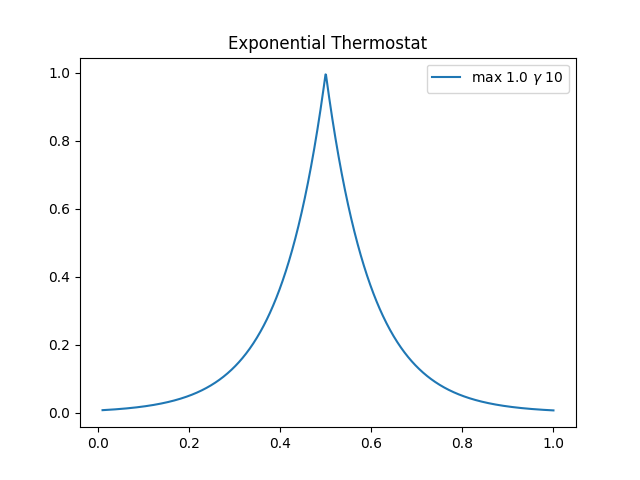
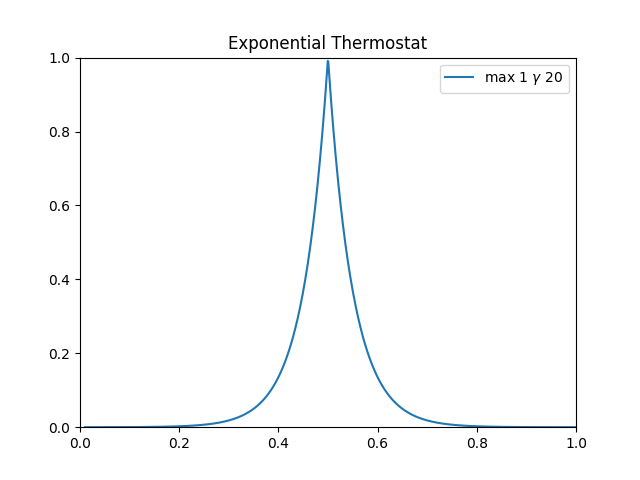
update

diff --git a/experiments/nist/crm_nist_single_run.py b/experiments/nist/crm_nist_single_run.py
@@ -1,7 +1,7 @@
 from conditional_rate_matching.configs.config_files import ExperimentFiles
 from conditional_rate_matching.models.trainers.crm_trainer import CRMTrainer
 from conditional_rate_matching.configs.configs_classes.config_crm import CRMConfig, CRMTrainerConfig
-from conditional_rate_matching.models.pipelines.thermostat.crm_thermostat_config import ConstantThermostatConfig, LogThermostatConfig
+from conditional_rate_matching.models.pipelines.thermostat.crm_thermostat_config import ConstantThermostatConfig, LogThermostatConfig, ExponentialThermostatConfig
 from conditional_rate_matching.models.temporal_networks.temporal_networks_config import UConvNISTNetConfig, TemporalDeepMLPConfig, TemporalLeNet5Config, TemporalLeNet5AutoencoderConfig, TemporalUNetConfig, CFMUnetConfig
 from conditional_rate_matching.models.metrics.metrics_utils import MetricsAvaliable
 from conditional_rate_matching.data.image_dataloader_config import NISTLoaderConfig
@@ -31,9 +31,7 @@ def CRM_single_run(dynamics="crm",
                     dropout=0.1,
                     num_layers=3,
                     activation="ReLU",
-                    gamma=1.0,
-                    thermostat_time_exponential=3.,
-                    thermostat_time_base=1.0,
+                    gamma_thermostat =1.0,
                     num_timesteps=1000,
                     ema_decay=0.999
                     ):
@@ -96,8 +94,14 @@ def CRM_single_run(dynamics="crm",
         crm_config.data1 = NISTLoaderConfig(flatten=False, as_image=True, batch_size=batch_size, dataset_name=dataset1)
         crm_config.temporal_network = UConvNISTNetConfig()
 
-    if thermostat == "log": crm_config.thermostat = LogThermostatConfig(time_exponential=thermostat_time_exponential, time_base=thermostat_time_base,)
-    else: crm_config.thermostat = ConstantThermostatConfig(gamma=gamma)
+    if thermostat == "LogThermostat": 
+        crm_config.thermostat = LogThermostatConfig(time_exponential=gamma_thermostat, time_base=1.0,)
+    
+    elif thermostat == "ExponentialThermostat":
+        crm_config.thermostat = ExponentialThermostatConfig(max=1.0, gamma=gamma_thermostat,)
+    
+    else: 
+        crm_config.thermostat = ConstantThermostatConfig(gamma=gamma_thermostat)
 
     crm_config.trainer = CRMTrainerConfig(number_of_epochs=epochs,
                                           learning_rate=learning_rate,
@@ -134,8 +138,8 @@ if __name__ == "__main__":
         CRM_single_run(dynamics="crm",
                experiment_type=experiment + '_' + gamma + '_' + ensemble,
                model="unet_cfm",
-               epochs=100,
-               thermostat=None,
+               epochs=200,
+               thermostat="ExponentialThermostat",
                coupling_method=coupling,
                dataset0=dataset0,
                dataset1="mnist",
@@ -147,7 +151,7 @@ if __name__ == "__main__":
                learning_rate= 0.0001,
                hidden_dim=128,
                time_embed_dim=128,
-               gamma=float(gamma),
+               gamma_thermostat=float(gamma),
                device="cuda:" + cuda)
 
         # CRM_single_run(dynamics="crm",
